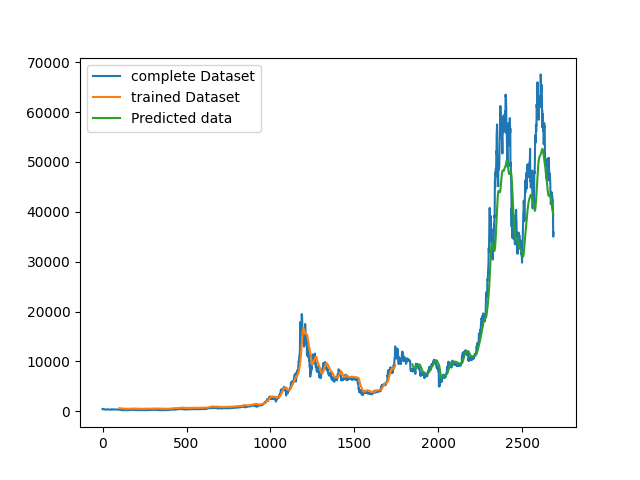
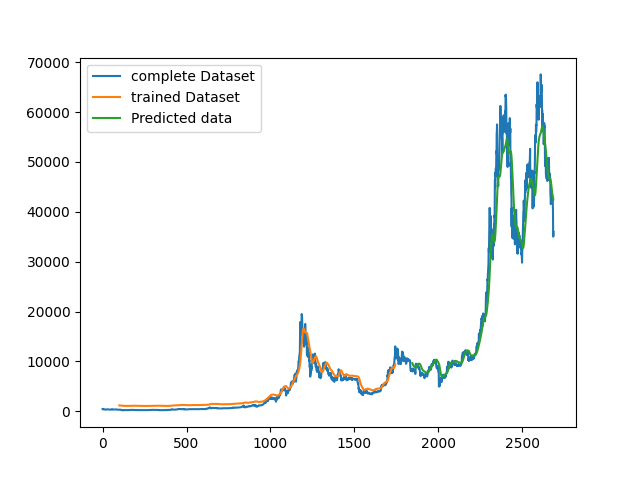
got error: plot merging

diff --git a/helper.py b/helper.py
@@ -73,7 +73,7 @@ def convert_dataset_matrix(dataset, time_step=7):
 
 def train_model(df):
 
-    global X_train, X_test, scaler, df1
+    global X_train, X_test, scaler, df1, test_data
     df1=df.reset_index()['Close']
     scaler=MinMaxScaler(feature_range=(0,1))
     df1=scaler.fit_transform(np.array(df1).reshape(-1,1))
@@ -127,8 +127,52 @@ def display_accuracy_graph_plot():
     plot = r"files/pic.png"
     return plot
 
+
+
 def predict():
-    pass
+
+    model = load_model("model/model.hdf5")
+    lst_output=[]
+    n_steps=100
+    i=0
+
+    x_input=test_data[len(test_data) - n_steps:].reshape(1,-1)
+    temp_input=list(x_input)
+    temp_input=temp_input[0].tolist()
+
+    while(i<30):
+        
+        if(len(temp_input)>100):
+            #print(temp_input)
+            x_input=np.array(temp_input[1:])
+            x_input=x_input.reshape(1,-1)
+            x_input = x_input.reshape((1, n_steps, 1))
+            #print(x_input)
+            yhat = model.predict(x_input, verbose=0)
+            temp_input.extend(yhat[0].tolist())
+            temp_input=temp_input[1:]
+            #print(temp_input)
+            lst_output.extend(yhat.tolist())
+            i=i+1
+        else:
+            x_input = x_input.reshape((1, n_steps,1))
+            yhat = model.predict(x_input, verbose=0)
+            temp_input.extend(yhat[0].tolist())
+            lst_output.extend(yhat.tolist())
+            i=i+1
+    
+    day_new=np.arange(1,101)
+    day_pred=np.arange(101,131)
+
+    plt.plot(day_new,scaler.inverse_transform(df1[len(df1) - n_steps:]))
+    plt.plot(day_pred,scaler.inverse_transform(lst_output))
+    df3=df1.tolist()
+    df3.extend(lst_output)
+    plt.plot(df3[1200:])
+    plt.savefig("files/pic1.png")
+    plot = r"files/pic1.png"
+
+    return plot
 
 
 

diff --git a/app.py b/app.py
@@ -1,6 +1,6 @@
 from cProfile import label
 import streamlit as st
-from helper import fetch_options, fetch_data, train_model, display_loss_plot, display_accuracy_graph_plot
+from helper import fetch_options, fetch_data, train_model, display_loss_plot, display_accuracy_graph_plot, predict
 
 st.set_option('deprecation.showPyplotGlobalUse', False)
 st.set_page_config(
@@ -27,3 +27,4 @@ if st.button("Predict"):
     loss_plot = display_loss_plot(model)
     st.line_chart(loss_plot)
     st.image(display_accuracy_graph_plot())
+    st.image(predict())
